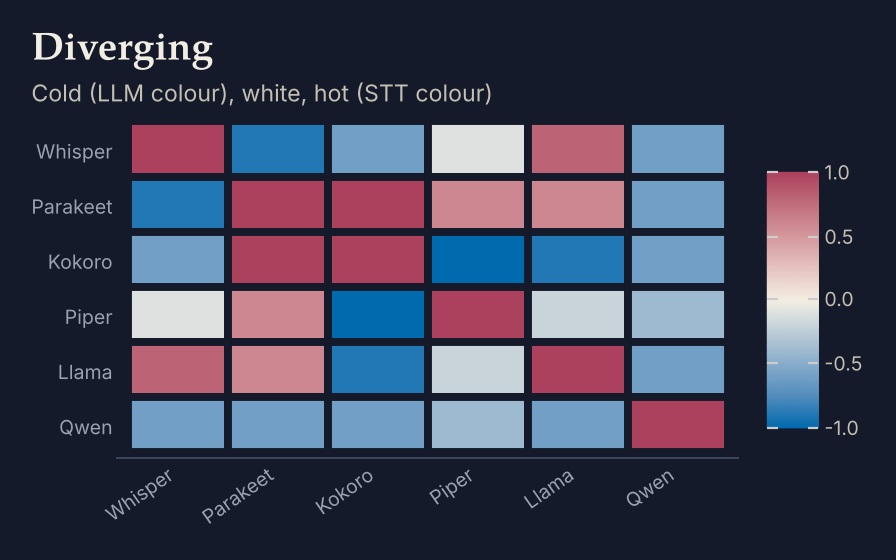
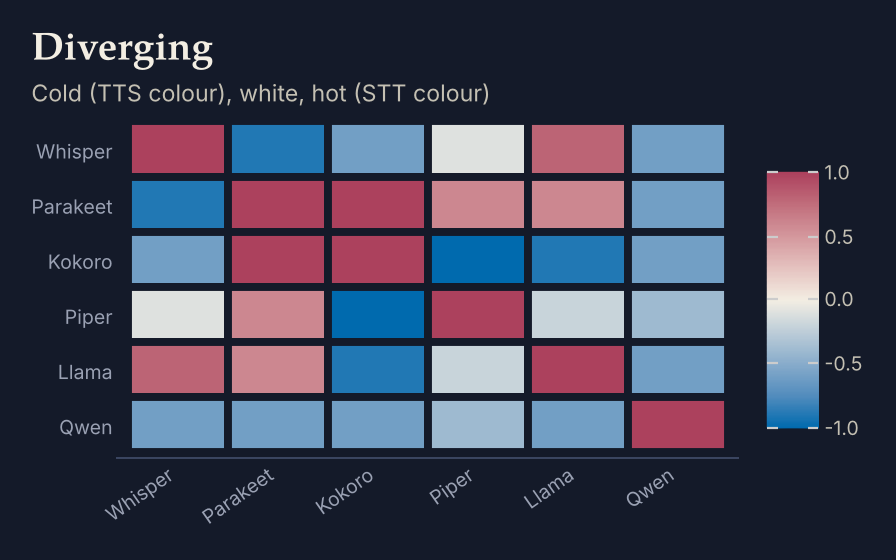
Add files via upload
Swap LLM and TTS stage colours, order fixes, README hero

Changed region(s): [[0.0938, 0.1518, 0.5625, 0.1821]]

diff --git a/src/roygbviz/palettes.py b/src/roygbviz/palettes.py
@@ -29,12 +29,12 @@ _COLOURS: dict[tuple[str, str], dict[str, str]] = {
 }
 
 # --- stage (group) colours -------------------------------------------------------------------------
-# For top-level STT / LLM / TTS comparisons: crimson, deep blue and lime from the same rainbow. Each stage leads a block of four
+# For top-level STT / LLM / TTS comparisons: crimson, lime and deep blue from the same rainbow. Each stage leads a block of four
 # neighbouring hues: STT with red, orange, yellow; LLM with green, teal, blue; TTS with indigo, violet, pink.
 GROUPS: tuple[str, ...] = ("STT", "LLM", "TTS")
 _GROUPS: dict[str, dict[str, str]] = {
-    "light": dict(STT="#AC3E5C", LLM="#0062A1", TTS="#ABD865"),
-    "dark": dict(STT="#AC415D", LLM="#006AAE", TTS="#ACD768"),
+    "light": dict(STT="#AC3E5C", LLM="#ABD865", TTS="#0062A1"),
+    "dark": dict(STT="#AC415D", LLM="#ACD768", TTS="#006AAE"),
 }
 
 # Series order: the order model colours are handed out in plots. Each new colour is the one furthest from those
@@ -169,12 +169,12 @@ class Palette:
         return out
 
     def diverging(self, n: int = 9) -> list[str]:
-        """Cold to hot: +1 is the STT stage colour (crimson), 0 is white, -1 is the LLM stage colour (deep blue), with a straight gradient between.
+        """Cold to hot: +1 is the STT stage colour (crimson), 0 is white, -1 is the TTS stage colour (deep blue), with a straight gradient between.
 
         Returned cold to hot (index 0 is -1, the last is +1). ``n`` is forced odd so the midpoint is exactly white.
         """
         n += (n + 1) % 2
-        cold, hot, mid = self.groups["LLM"], self.groups["STT"], DIVERGING_MID[self.mode]
+        cold, hot, mid = self.groups["TTS"], self.groups["STT"], DIVERGING_MID[self.mode]
         out = []
         for i in range(n):
             u = (i - (n - 1) / 2) / ((n - 1) / 2)  # -1 (cold) .. 1 (hot)

diff --git a/examples/readme_figs.py b/examples/readme_figs.py
@@ -38,7 +38,7 @@ def div_fig():
     d["x"] = pd.Categorical(d["x"], names); d["y"] = pd.Categorical(d["y"], names[::-1])
     return (ggplot(d, aes("x", "y", fill="v")) + geom_tile(colour=mega.S["N"]["bg"], size=2)
             + rv.scale_fill_roygbviz_div(limits=(-1, 1)) + theme(panel_grid_major=element_blank(), axis_text_x=element_text(rotation=35, ha="right"))
-            + labs(title="Diverging", subtitle="Cold (LLM colour), white, hot (STT colour)", x="", y="", fill=""))
+            + labs(title="Diverging", subtitle="Cold (TTS colour), white, hot (STT colour)", x="", y="", fill=""))
 
 
 FIGS = {

diff --git a/examples/gallery.py b/examples/gallery.py
@@ -148,7 +148,7 @@ def diverging():
             + geom_text(aes(label="label", colour="ink"), size=9, show_legend=False)
             + scale_colour_manual(values={"hi": hi, "lo": "#1B2A41"})
             + rv.scale_fill_roygbviz_div()
-            + labs(title="Change vs baseline", subtitle="-1 is the LLM colour, 0 is white, +1 is the STT colour", x="", y="", fill="pp"))
+            + labs(title="Change vs baseline", subtitle="-1 is the TTS colour, 0 is white, +1 is the STT colour", x="", y="", fill="pp"))
 
 
 FNS = (lines, nine, stages, levels_demo, scatter, heat, diverging)

diff --git a/tests/test_palettes.py b/tests/test_palettes.py
@@ -91,7 +91,7 @@ def test_diverging_runs_cold_to_hot(mode):
     from roygbviz.palettes import DIVERGING_MID
     p = rv.get_palette(mode)
     div = p.diverging(9)
-    assert div[0] == p.groups["LLM"] and div[-1] == p.groups["STT"]  # -1 LLM colour, +1 STT colour
+    assert div[0] == p.groups["TTS"] and div[-1] == p.groups["STT"]  # -1 TTS colour, +1 STT colour
     assert div[4] == DIVERGING_MID[mode]                              # 0 is white
     L = [C.to_oklch(h)[0] for h in div]
     # lightness rises from the blue end to the white middle and falls to the red end

diff --git a/README.md b/README.md
@@ -112,8 +112,8 @@ Nine of the twelve are for the models and three are for the stages. Each stage l
 | | Light | Dark |
 |---|---|---|
 | STT | `#AC3E5C` | `#AC415D` |
-| LLM | `#0062A1` | `#006AAE` |
-| TTS | `#ABD865` | `#ACD768` |
+| LLM | `#ABD865` | `#ACD768` |
+| TTS | `#0062A1` | `#006AAE` |
 
 **Models** (default colours)
 
@@ -166,11 +166,11 @@ Use levels for things within one model (different settings, say) or for stacked 
 <p align="center">
 <picture>
   <source media="(prefers-color-scheme: dark)" srcset="https://raw.githubusercontent.com/KhaiShea/roygbviz/main/assets/examples/diverging_dark.png">
-  <img src="https://raw.githubusercontent.com/KhaiShea/roygbviz/main/assets/examples/diverging_light.png" alt="Diverging heatmap from the LLM colour through white to the STT colour" width="640">
+  <img src="https://raw.githubusercontent.com/KhaiShea/roygbviz/main/assets/examples/diverging_light.png" alt="Diverging heatmap from the TTS colour through white to the STT colour" width="640">
 </picture>
 </p>
 
-`rv.scale_fill_roygbviz_div()` is a straight gradient. **+1 is the STT colour (hot), 0 is white, and -1 is the LLM colour (cold).** The ends are the stage colours, so a diverging chart still feels like part of the same set. It centres on zero unless you pass `midpoint=`. In dark mode zero is a soft cream-white (`#F3EEE3`) so it doesn't glare.
+`rv.scale_fill_roygbviz_div()` is a straight gradient. **+1 is the STT colour (hot), 0 is white, and -1 is the TTS colour (cold).** The ends are the stage colours, so a diverging chart still feels like part of the same set. It centres on zero unless you pass `midpoint=`. In dark mode zero is a soft cream-white (`#F3EEE3`) so it doesn't glare.
 
 On the pale tiles use dark text for labels. On the strong ends use white (light mode) or navy (dark mode). The gallery shows this.
 
